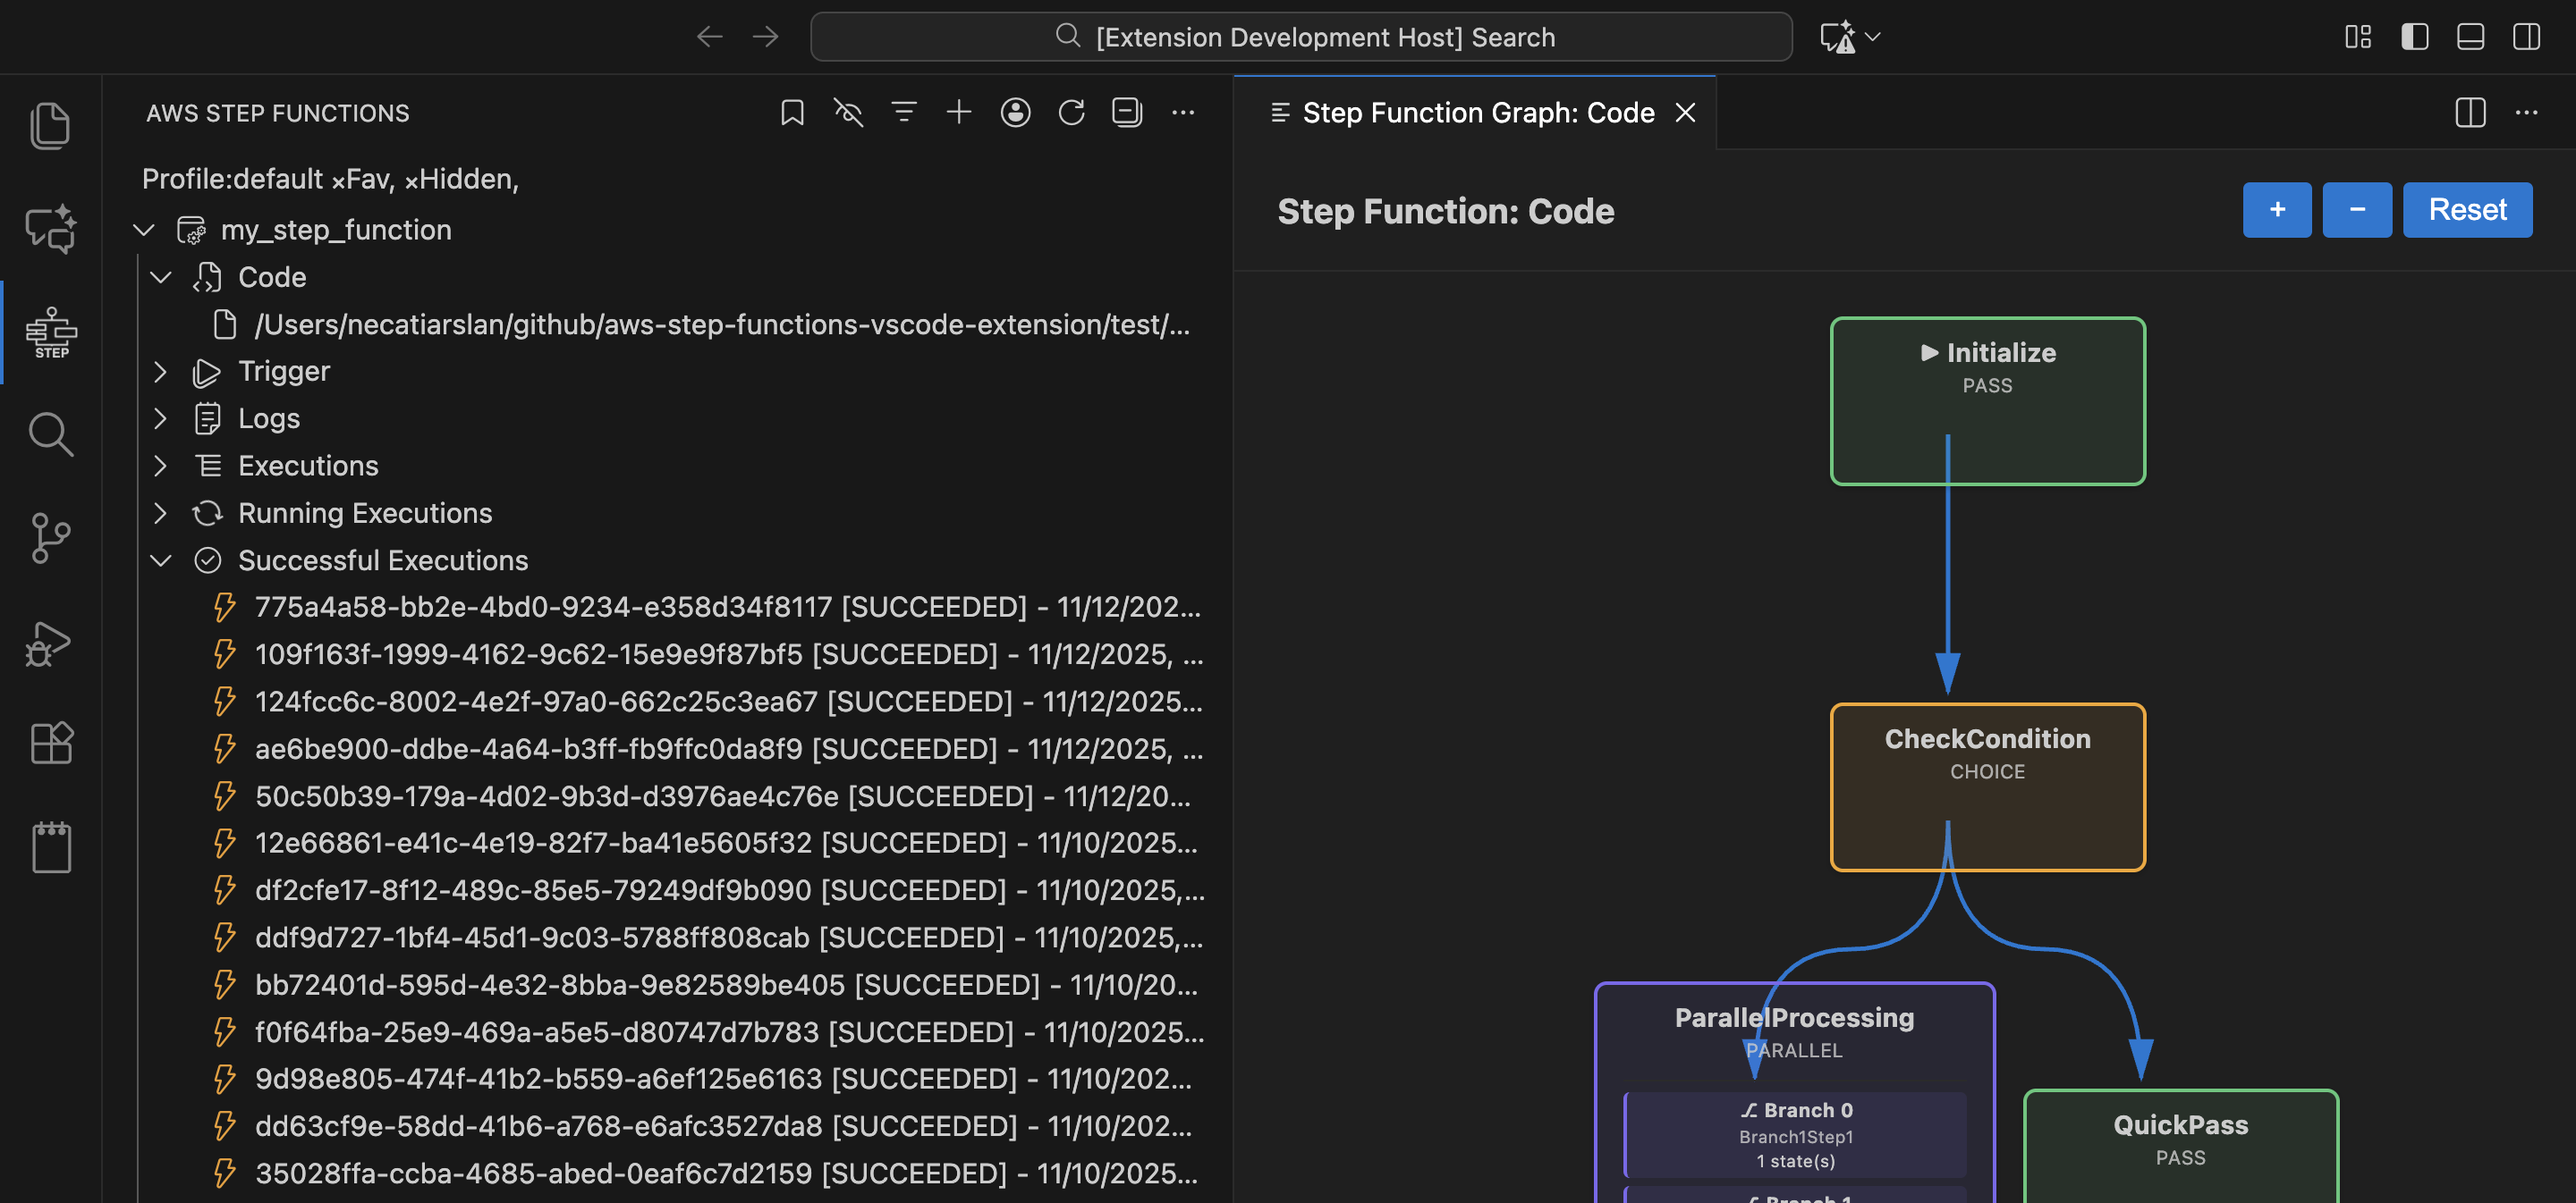
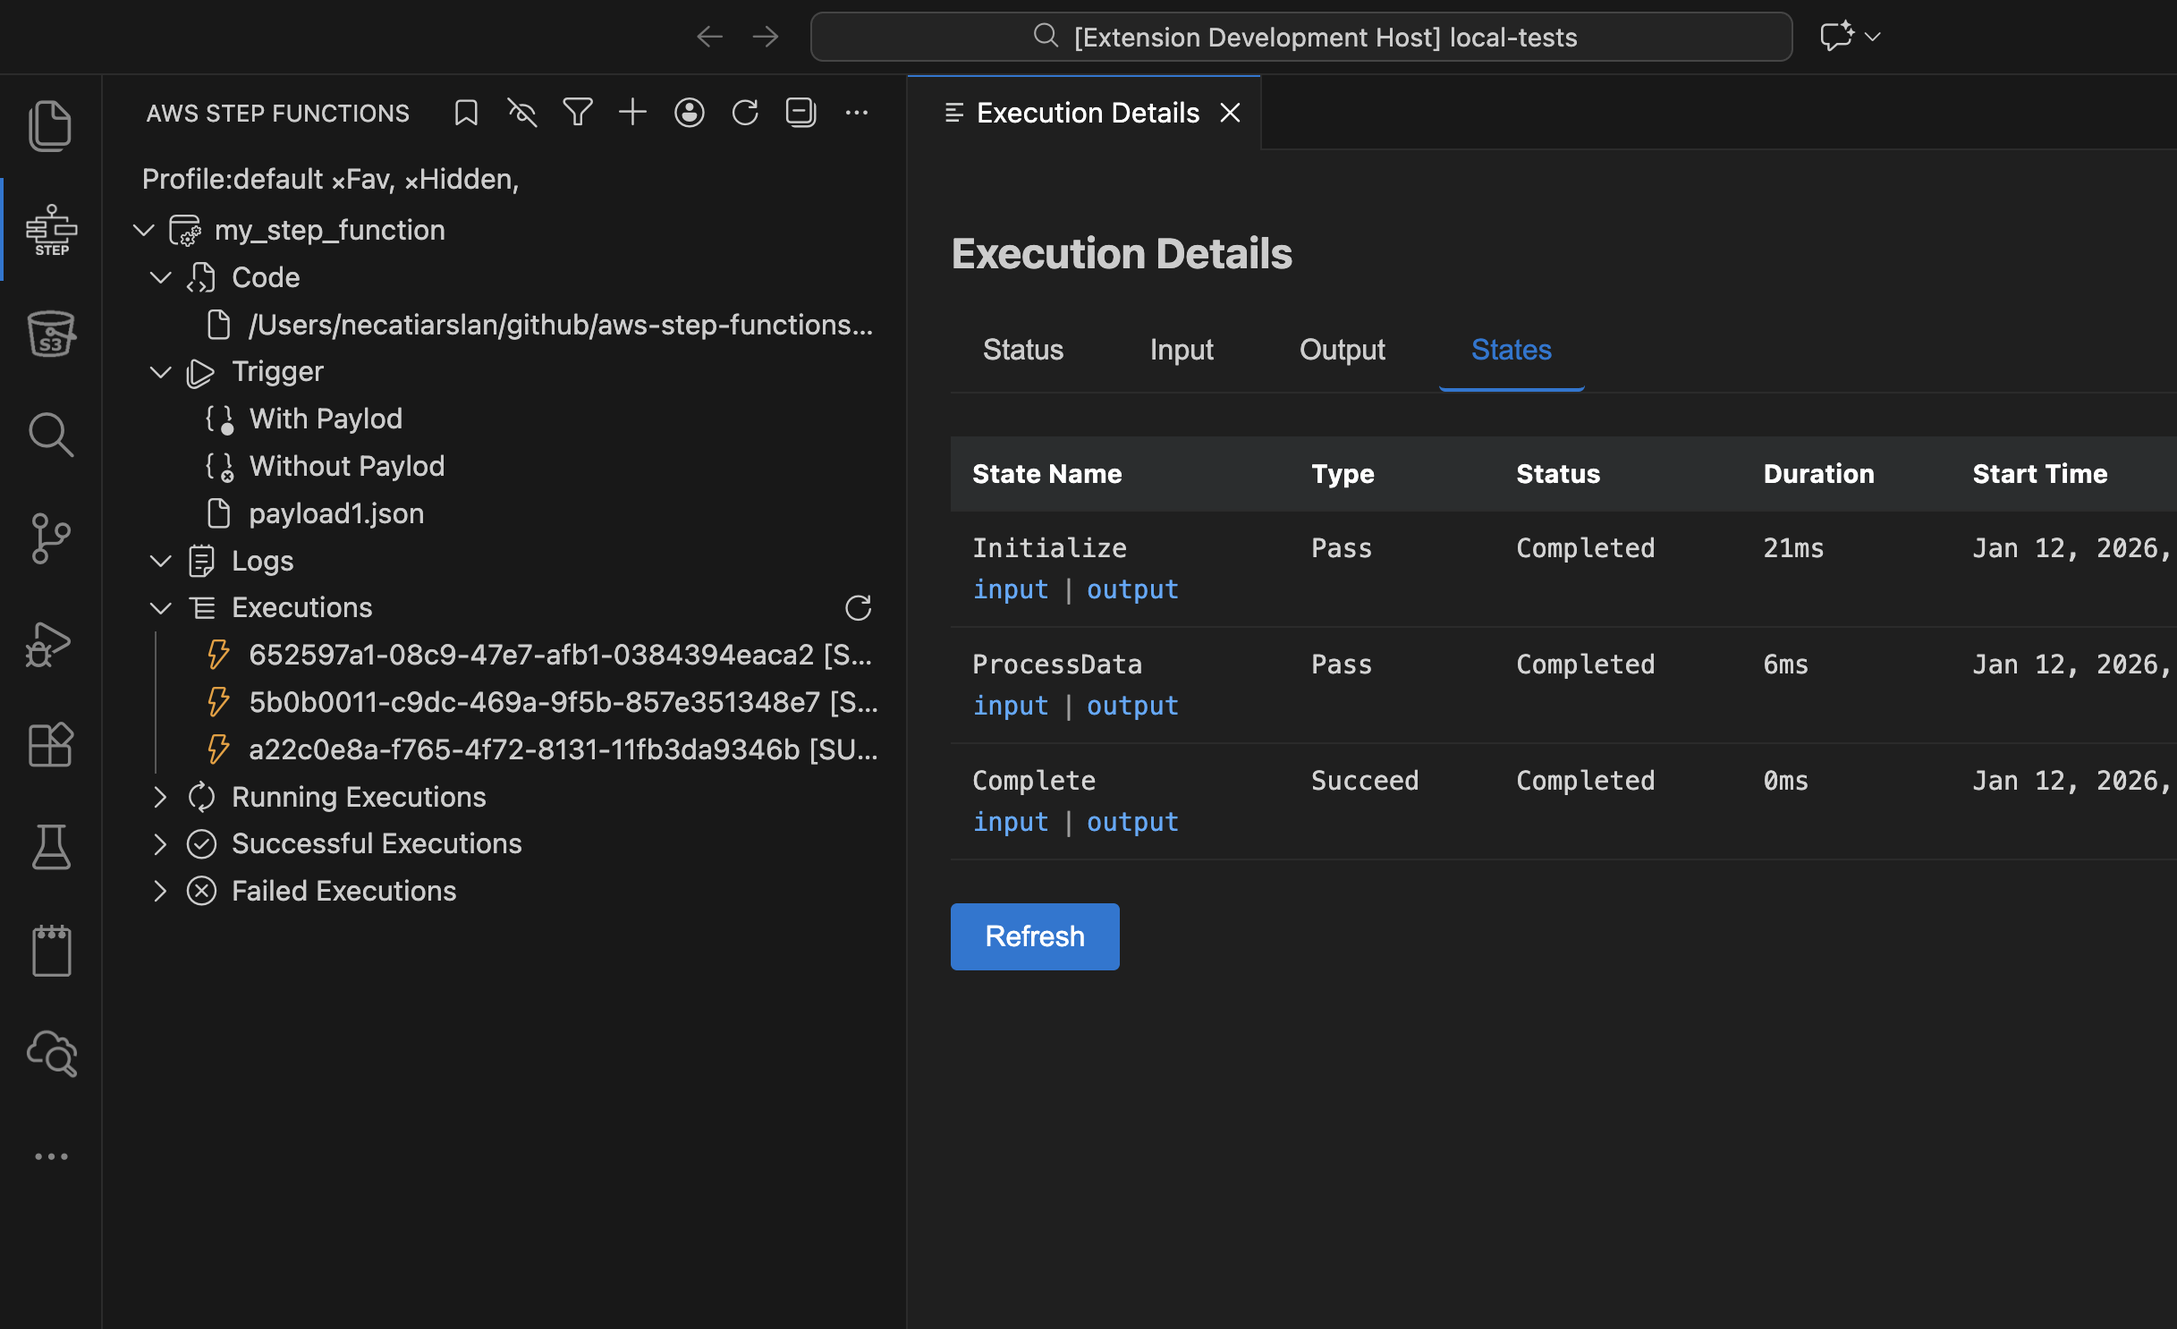
Add Execution Details View feature to README and update extension screenshot

diff --git a/README.md b/README.md
@@ -12,6 +12,7 @@
 - **Export Logs**: Save logs for later analysis.  
 - **Filter and Search Logs**: Easily navigate through logs using built-in search and filter options.  
 - **AWS Profile Support**: Work with multiple AWS profiles seamlessly.  
+- **Execution Details View**: Inspect executions in a tabbed view (Status, Input, Output, States)
 
 ## Sponsor Me
 If you find this extension useful, you can [sponsor me on GitHub](https://github.com/sponsors/necatiarslan).
@@ -30,40 +31,14 @@ For more detail on aws credentials \
 https://docs.aws.amazon.com/cli/latest/userguide/cli-configure-files.html \
 https://www.youtube.com/watch?v=SON8sY1iOBU
 
-Extension supports all types of credentials. It searches for aws credentials in the following order:
-- Environment Variables:
-  - AWS_ACCESS_KEY_ID
-  - AWS_SECRET_ACCESS_KEY
-  - AWS_SESSION_TOKEN (optional, for temporary credentials)
-
-- Shared Credentials File:
-  - ~/.aws/credentials (default profile or a named profile)
-  - ~/.aws/config (for region settings)
-
-- Amazon EC2 Instance Metadata Service (IMDS):
-  - When running on an EC2 instance with an attached IAM role, credentials are retrieved from http://169.254.169.254/latest/meta-data/iam/security-credentials/
-
-- Amazon ECS Container Credentials:
-  - When running in an ECS task, the SDK retrieves credentials from the container metadata URI (provided by ECS agent).
-
-- SSO Credentials:
-  - If you've configured SSO using the AWS CLI, the SDK will attempt to retrieve credentials from your SSO login session.
-
-- Web Identity Token (IAM Roles for Service Accounts):
-  - For federated identity access, such as AWS IAM roles for Kubernetes (EKS).
-
 ## Bug Report
 To report your bugs or request new features, use link below\
 https://github.com/necatiarslan/aws-step-functions-vscode-extension/issues/new
 
 
 ## Todo  
-- show execution events 
 - fix graph view
   - https://github.com/aws/aws-toolkit-vscode/tree/master/packages/core/src/stepFunctions/workflowStudio
-- add table view
-- add execution events view, state view
-- add execution input and output buttons to view
 
 ## Nice To Have
 - 
